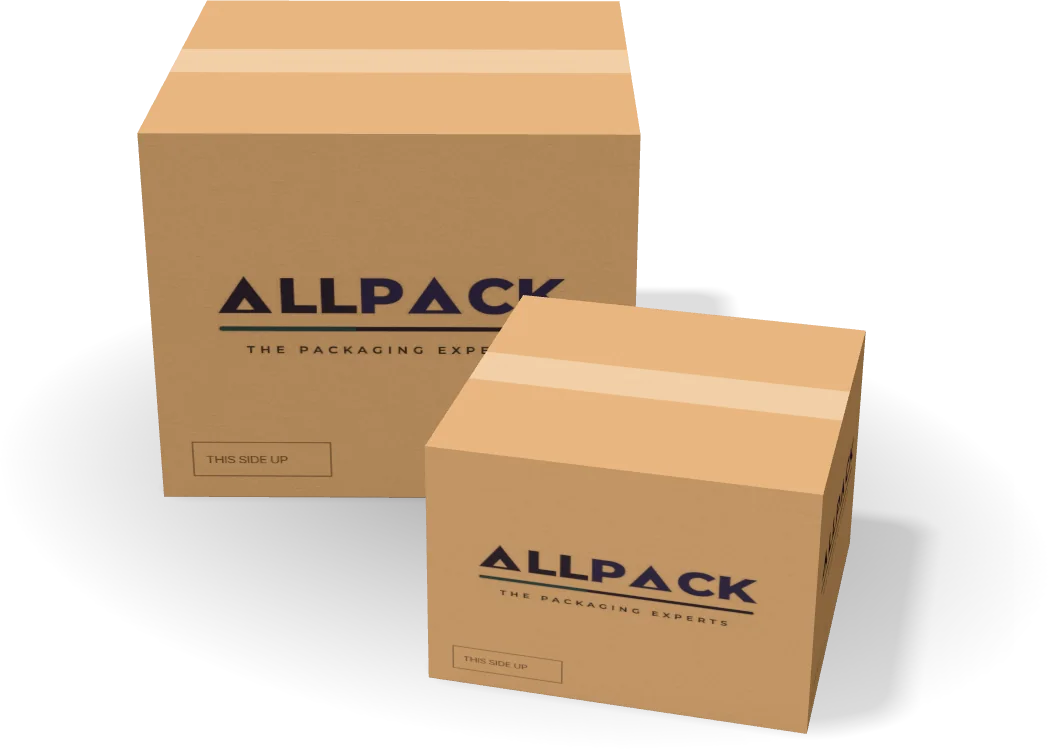
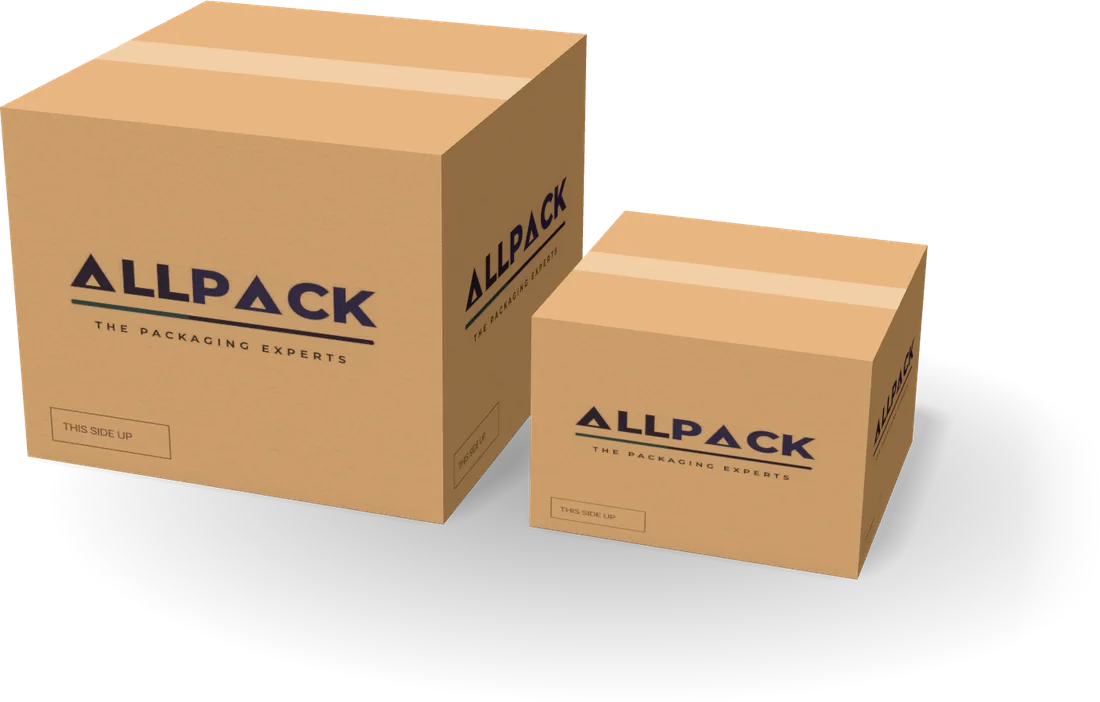
Re-render products front-facing at one shared angle; larger hero composition and product images
Claude-Session: https://claude.ai/code/session_01HC6efwoBxu5bysp8tUQcVt

diff --git a/scripts/renders/render.html b/scripts/renders/render.html
@@ -63,7 +63,8 @@ function plain(color, r = .6) { return new THREE.MeshStandardMaterial({ color, r
 function box(w, h, d, mats, r = .012) {
   const m = new THREE.Mesh(r>0.0099 && P.get('round') ? new RoundedBoxGeometry(w, h, d, 4, r) : new THREE.BoxGeometry(w, h, d), mats); m.castShadow = true; m.receiveShadow = true; return m;
 }
-const add = (m, x = 0, y = 0, z = 0, ry = 0) => { m.position.set(x, y, z); m.rotation.y = -ry; scene.add(m); return m; };
+const ROT = -0.34; // one shared turn: front face to camera, a sliver of the right side for depth
+const add = (m, x = 0, y = 0, z = 0) => { m.position.set(x, y, z); m.rotation.y = ROT; scene.add(m); return m; };
 
 // ---------- products ----------
 const B = {};
@@ -137,7 +138,7 @@ B.mailer = () => {
   // tissue/insert
   const ins = box(W - .1, .08, D - .1, plain('#EDEFF5', .9), .02); ins.position.y = .06; g.add(ins);
   g.traverse(o => { if (o.isMesh) { o.castShadow = o.receiveShadow = true; } });
-  g.rotation.y = .5; scene.add(g);
+  g.rotation.y = ROT; scene.add(g);
   contact(2.4, 1.8, 0, -.1);
   return { cam: [2.0, 2.2, 2.7], look: [0, .35, -.15], fov: 32 };
 };
@@ -148,21 +149,21 @@ B.shipping = () => {
   const top = tex(1024, 1024, (c, w, h) => { kraft(c, w, h, '#B48C62'); c.fillStyle = 'rgba(80,55,30,.35)'; c.fillRect(0, h / 2 - 2, w, 4); c.fillStyle = 'rgba(205,185,155,.6)'; c.fillRect(0, h / 2 - 90, w, 180); });
   const k = mat(side, { r: .9 });
   const m = [k, k, mat(top, { r: .9 }), k, k, k];
-  add(box(S, S * .82, S, m, .015), -.15, S * .41, 0, -.6);
-  const s2 = box(.8, .55, .8, m, .012); add(s2, .95, .275, .55, -.35);
+  add(box(S, S * .82, S, m, .015), -.45, S * .41, -.25);
+  add(box(.8, .55, .8, m, .012), .62, .275, .25);
   contact(2.8, 2.2, .3, .2);
   return { cam: [2.6, 2.2, 3.4], look: [.3, .45, .1], fov: 32 };
 };
-// 6 Food box: white pizza/bakery box with print
+// 6 Food box: printed bakery box, artwork on the front
 B.food = () => {
-  const S = 1.5, H = .22;
-  const top = tex(1500, 1500, (c, w, h) => { c.fillStyle = '#FBFAF7'; c.fillRect(0, 0, w, h); c.strokeStyle = BRAND; c.lineWidth = 10; c.beginPath(); c.arc(w / 2, h / 2, 420, 0, Math.PI * 2); c.stroke(); c.fillStyle = BRAND; c.font = '600 120px IT'; c.textAlign = 'center'; c.fillText('Fornaio', w / 2, h / 2 + 10); c.font = '500 50px IT'; c.fillStyle = SKY; c.fillText('WOOD-FIRED · LAHORE', w / 2, h / 2 + 100); c.fillStyle = CYAN; c.fillRect(w / 2 - 60, h / 2 - 150, 120, 8); });
-  const side = tex(1500, 220, (c, w, h) => { c.fillStyle = '#FBFAF7'; c.fillRect(0, 0, w, h); c.fillStyle = BRAND; c.fillRect(0, h - 30, w, 30); });
-  const m = [mat(side), mat(side), mat(top, { r: .7 }), plain('#eee'), mat(side), mat(side)];
-  add(box(S, H, S, m, .01), 0, H / 2, 0, -.5);
-  add(box(S, H, S, m, .01), .05, H * 1.5 + .004, -.02, -.42);
-  contact(2.4, 2.4);
-  return { cam: [2.2, 2.4, 2.6], look: [0, .2, 0], fov: 32 };
+  const W = 1.25, H = .78, D = 1.0;
+  const front = tex(1250, 780, (c, w, h) => { c.fillStyle = '#FBFAF7'; c.fillRect(0, 0, w, h); c.fillStyle = BRAND; c.fillRect(0, h - 90, w, 90); c.strokeStyle = BRAND; c.lineWidth = 8; c.beginPath(); c.arc(w / 2, h * .43, 230, 0, Math.PI * 2); c.stroke(); c.fillStyle = BRAND; c.font = '600 104px IT'; c.textAlign = 'center'; c.fillText('Fornaio', w / 2, h * .46); c.font = '500 40px IT'; c.fillStyle = SKY; c.fillText('BAKERY · LAHORE', w / 2, h * .46 + 70); c.fillStyle = CYAN; c.fillRect(w / 2 - 50, h * .46 - 130, 100, 7); });
+  const side = tex(1000, 780, (c, w, h) => { c.fillStyle = '#F6F5F1'; c.fillRect(0, 0, w, h); c.fillStyle = BRAND; c.fillRect(0, h - 90, w, 90); });
+  const top = tex(1250, 1000, (c, w, h) => { c.fillStyle = '#FBFAF7'; c.fillRect(0, 0, w, h); c.fillStyle = 'rgba(52,59,130,.08)'; c.fillRect(w * .2, h * .2, w * .6, h * .6); c.strokeStyle = 'rgba(52,59,130,.35)'; c.lineWidth = 4; c.strokeRect(w * .2, h * .2, w * .6, h * .6); });
+  const m = [mat(side), mat(side), mat(top, { r: .6 }), plain('#eee'), mat(front, { r: .5 }), mat(side)];
+  add(box(W, H, D, m, .01), 0, H / 2, 0);
+  contact(2.0, 1.7);
+  return { cam: [0, 1, 3], look: [0, .4, 0], fov: 32 };
 };
 // 7 Paper bag: white bag with rope handles
 B.bag = () => {
@@ -175,7 +176,7 @@ B.bag = () => {
   const rope = (z) => { const curve = new THREE.CatmullRomCurve3([new THREE.Vector3(-.22, H - .05, z), new THREE.Vector3(-.2, H + .3, z), new THREE.Vector3(0, H + .42, z), new THREE.Vector3(.2, H + .3, z), new THREE.Vector3(.22, H - .05, z)]); const m = new THREE.Mesh(new THREE.TubeGeometry(curve, 60, .016, 10), plain(NAVY, .7)); m.castShadow = true; g.add(m); };
   rope(D / 2 + .005); rope(-D / 2 - .005);
   g.traverse(o => { if (o.isMesh) { o.castShadow = o.receiveShadow = true; } });
-  g.rotation.y = .3; scene.add(g);
+  g.rotation.y = ROT; scene.add(g);
   contact(2.0, 1.4);
   return { cam: [2.2, 1.9, 2.9], look: [0, .8, 0], fov: 32 };
 };
@@ -183,12 +184,12 @@ B.bag = () => {
 B.labels = () => {
   const lab = tex(2048, 512, (c, w, h) => { c.fillStyle = '#fff'; c.fillRect(0, 0, w, h); c.fillStyle = NAVY; c.fillRect(0, 0, w, 70); c.fillRect(0, h - 70, w, 70); c.fillStyle = NAVY; c.font = '600 120px IT'; c.fillText('Wild honey', 120, 290); c.fillText('Wild honey', 1144, 290); c.fillStyle = SKY; c.font = '500 50px IT'; c.fillText('RAW · 500 g', 124, 370); c.fillText('RAW · 500 g', 1148, 370); });
   const jar = new THREE.Mesh(new THREE.CylinderGeometry(.42, .42, 1.0, 96), [new THREE.MeshPhysicalMaterial({ color: 0xC98A2B, roughness: .15, clearcoat: 1 }), plain('#222', .4), plain('#222')]);
-  jar.position.set(-.25, .5, 0); jar.castShadow = true; scene.add(jar);
-  const lbl = new THREE.Mesh(new THREE.CylinderGeometry(.425, .425, .5, 96, 1, true), mat(lab, { r: .45 })); lbl.position.set(-.25, .5, 0); lbl.rotation.y = 2.2; scene.add(lbl);
-  const cap = new THREE.Mesh(new THREE.CylinderGeometry(.43, .43, .16, 96), plain(NAVY, .35)); cap.position.set(-.25, 1.08, 0); cap.castShadow = true; scene.add(cap);
+  jar.position.set(-.3, .5, -.15); jar.castShadow = true; scene.add(jar);
+  const lbl = new THREE.Mesh(new THREE.CylinderGeometry(.425, .425, .5, 96, 1, true), mat(lab, { r: .45 })); lbl.position.set(-.3, .5, -.15); lbl.rotation.y = -1.25; scene.add(lbl);
+  const cap = new THREE.Mesh(new THREE.CylinderGeometry(.43, .43, .16, 96), plain(NAVY, .35)); cap.position.set(-.3, 1.08, -.15); cap.castShadow = true; scene.add(cap);
   // label roll
   const roll = new THREE.Mesh(new THREE.CylinderGeometry(.42, .42, .3, 96), [mat(tex(2048, 300, (c, w, h) => { c.fillStyle = '#fff'; c.fillRect(0, 0, w, h); for (let i = 0; i < 12; i++) { c.fillStyle = NAVY; c.fillRect(i * 170 + 10, 20, 150, 260); c.fillStyle = '#fff'; c.font = '600 28px IT'; c.fillText('honey', i * 170 + 40, 160); } })), plain('#F2F2F2', .8), plain('#F2F2F2', .8)]);
-  roll.position.set(.75, .15, .45); roll.castShadow = true; scene.add(roll);
+  roll.position.set(.62, .15, .42); roll.castShadow = true; scene.add(roll);
   const core = new THREE.Mesh(new THREE.CylinderGeometry(.16, .16, .302, 48), plain('#B98F62', .9)); core.position.copy(roll.position); scene.add(core);
   contact(2.6, 2.0, .2, .2);
   return { cam: [2.0, 1.7, 2.8], look: [.15, .45, .1], fov: 32 };
@@ -199,8 +200,9 @@ const cam = new THREE.PerspectiveCamera(cfg.fov, 1, .1, 100);
 const bb = new THREE.Box3(); scene.updateMatrixWorld(true);
 scene.traverse(o => { if (o.isMesh && !o.userData.skip) bb.expandByObject(o); });
 const sph = bb.getBoundingSphere(new THREE.Sphere());
-const dir = new THREE.Vector3(...cfg.cam).sub(new THREE.Vector3(...cfg.look)).normalize();
-const dist = sph.radius / Math.sin(THREE.MathUtils.degToRad(cfg.fov / 2)) * (+P.get('m') || 0.9);
+const EL = THREE.MathUtils.degToRad(+(P.get('el') || 21));
+const dir = new THREE.Vector3(0, Math.sin(EL), Math.cos(EL));
+const dist = sph.radius / Math.sin(THREE.MathUtils.degToRad(cfg.fov / 2)) * (+P.get('m') || 1.05);
 const tgt = sph.center.clone(); tgt.y -= sph.radius * .04;
 cam.position.copy(tgt).addScaledVector(dir, dist); cam.lookAt(tgt);
 renderer.render(scene, cam);

diff --git a/src/app/page.tsx b/src/app/page.tsx
@@ -34,7 +34,7 @@ export default function Home() {
     <main>
       {/* Hero */}
       <section className="border-b border-line bg-mist">
-        <div className="container-x grid items-center gap-12 py-14 sm:py-20 lg:grid-cols-[1.15fr_.85fr] lg:gap-14 lg:py-24">
+        <div className="container-x grid items-center gap-12 py-14 sm:py-20 lg:grid-cols-[1fr_1.1fr] lg:gap-10 lg:py-20">
           <div className="anim-up">
             <Eyebrow>Packaging printers · Lahore</Eyebrow>
             <h1 className="h-display mt-6">Custom printed packaging, produced in Lahore <span className="text-brand">to your specification.</span></h1>
@@ -46,7 +46,7 @@ export default function Home() {
             <p className="meta mt-6">We reply to every enquiry within 24 hours</p>
           </div>
           <div className="anim-up d2">
-            <img src="/renders/packaging-range.webp" alt="ALL PACK printed packaging: a paper bag, folding carton, rigid gift box, pharmaceutical carton and corrugated shipping boxes" width={1100} height={841} fetchPriority="high" className="mx-auto w-full max-w-[620px]" />
+            <img src="/renders/packaging-range.webp" alt="ALL PACK printed packaging: a paper bag, folding carton, rigid gift box, pharmaceutical carton and corrugated shipping boxes" width={1400} height={958} fetchPriority="high" className="mx-auto w-full max-w-[720px] lg:max-w-none lg:scale-[1.06]" />
           </div>
         </div>
         <ul className="grid grid-cols-2 border-t border-line bg-white lg:grid-cols-4">
@@ -72,8 +72,8 @@ export default function Home() {
             {families.map((f, i) => (
               <li key={f.slug}>
                 <Link href={`/products#${f.slug}`} className="group block">
-                  <div className="flex aspect-square items-center justify-center rounded-2xl bg-card p-5 transition-colors group-hover:bg-soft sm:p-8">
-                    <img src={f.image} alt={f.alt} loading="lazy" className="max-h-full w-auto object-contain transition-transform duration-500 ease-out group-hover:scale-[1.03]" />
+                  <div className="flex aspect-square items-center justify-center rounded-2xl bg-card p-3 transition-colors group-hover:bg-soft sm:p-4">
+                    <img src={f.image} alt={f.alt} loading="lazy" className="max-h-full max-w-full object-contain transition-transform duration-500 ease-out group-hover:scale-[1.03]" />
                   </div>
                   <div className="mt-4 flex items-baseline justify-between gap-3">
                     <h3 className="text-[17px] leading-snug sm:text-[19px]">{f.name}</h3>

diff --git a/src/app/products/page.tsx b/src/app/products/page.tsx
@@ -45,7 +45,7 @@ export default function ProductsPage() {
           const msg = `Hello ALL PACK, I would like a quotation for ${f.name.toLowerCase()}.\nSize:\nQuantity:\nPrint and finish:`;
           return (
             <section key={f.slug} id={f.slug} aria-labelledby={`${f.slug}-h`} className="grid items-center gap-10 border-b border-line py-16 last:border-0 sm:py-20 lg:grid-cols-2 lg:gap-16">
-              <div className={`relative flex aspect-[5/4] items-center justify-center rounded-3xl bg-card p-8 sm:p-12 ${i % 2 ? 'lg:order-2' : ''}`}>
+              <div className={`relative flex aspect-[5/4] items-center justify-center rounded-3xl bg-card p-6 sm:p-8 ${i % 2 ? 'lg:order-2' : ''}`}>
                 <span className="meta absolute left-5 top-5 rounded-full bg-white px-3 py-1 text-brand">{String(i + 1).padStart(2, '0')} / {String(families.length).padStart(2, '0')}</span>
                 <img src={f.image} alt={f.alt} loading={i < 2 ? 'eager' : 'lazy'} className="max-h-full w-auto object-contain" />
               </div>

diff --git a/src/app/globals.css b/src/app/globals.css
@@ -21,7 +21,7 @@
   .eyebrow::before { content: ""; width: 18px; height: 1.5px; background: #1FA8E0; }
   .eyebrow-light { @apply text-brand-light; }
 
-  .h-display { font-size: clamp(2.5rem, 4.8vw, 3.9rem); line-height: 1.04; }
+  .h-display { font-size: clamp(2.4rem, 4.4vw, 3.6rem); line-height: 1.05; }
   .h-section { font-size: clamp(2.1rem, 3.8vw, 3.25rem); line-height: 1.06; }
   .h-page { font-size: clamp(2.4rem, 4.6vw, 3.75rem); line-height: 1.04; }
   .lead { @apply text-[17px] leading-[1.65] text-secondary sm:text-[18px]; }

diff --git a/scripts/renders/shoot.py b/scripts/renders/shoot.py
@@ -3,10 +3,10 @@ from playwright.async_api import async_playwright
 async def main(kinds):
   async with async_playwright() as p:
     b=await p.chromium.launch(executable_path='/usr/bin/google-chrome',args=['--use-gl=angle','--use-angle=swiftshader','--enable-unsafe-swiftshader','--ignore-gpu-blocklist'])
-    pg=await b.new_page(viewport={'width':1200,'height':1200})
+    pg=await b.new_page(viewport={'width':1600,'height':1600})
     msgs=[]; pg.on('console',lambda m:msgs.append(m.text)); pg.on('pageerror',lambda e:msgs.append(str(e)))
     for k in kinds:
-      await pg.goto(f'http://localhost:8765/render.html?p={k}')
+      await pg.goto(f'http://localhost:8765/render.html?p={k}&s=1600')
       try: await pg.wait_for_function('window.DONE',timeout=90000)
       except Exception as e: print(k,'TIMEOUT',msgs[-5:]); continue
       await pg.locator('canvas').screenshot(path=f'out/{k}.png',omit_background=True); print(k,'ok')
